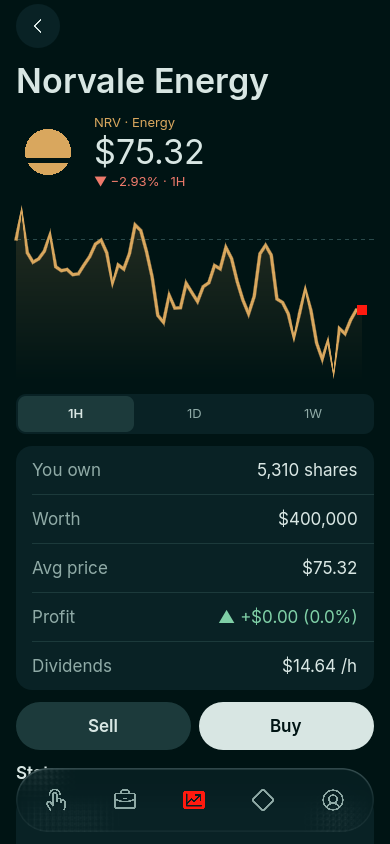
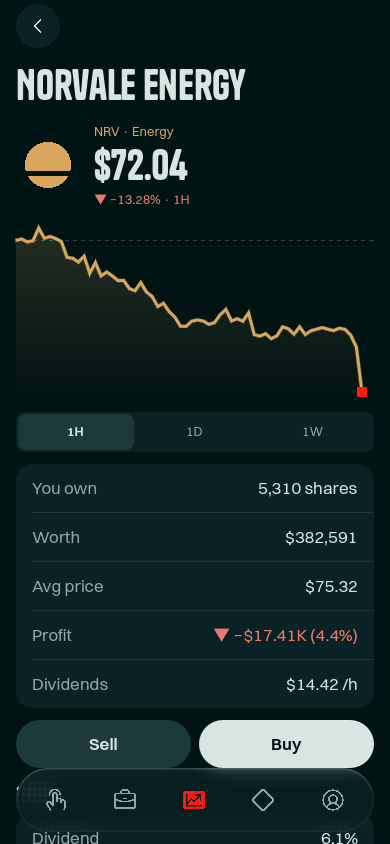
New fonts: Tanker for titles and money, Switzer for text
- Fonts come from Fontshare at build time (their licence allows them in
  the app but not in a public repo), with Inter as the backup
- Titles and big money amounts use Tanker; everything else Switzer
- README and LICENSE list the fonts; screenshots refreshed
- Writing pass: README, licence, plan and in-game text checked clean

Claude-Session: https://claude.ai/code/session_01G43aEuqkjUy83khniNYyKE

diff --git a/README.md b/README.md
@@ -32,7 +32,8 @@ It's only a game. There's no real money, no real shares and no real crypto. Ever
 ## Built with
 
 - [Godot Engine](https://godotengine.org) 4.4 (MIT)
-- [Inter](https://github.com/rsms/inter) font (SIL Open Font License 1.1), see `game/assets/fonts/LICENSE.txt`
+- [Switzer](https://www.fontshare.com/fonts/switzer) and [Tanker](https://www.fontshare.com/fonts/tanker) fonts from Fontshare (ITF Free Font License). They aren't stored here: the build downloads them from Fontshare.
+- [Inter](https://github.com/rsms/inter) font as a backup (SIL Open Font License 1.1), see `game/assets/fonts/LICENSE.txt`
 - [Phosphor](https://github.com/phosphor-icons/core) icons (MIT), see `game/assets/icons/LICENSE-phosphor.txt`
 
 ## Licence
